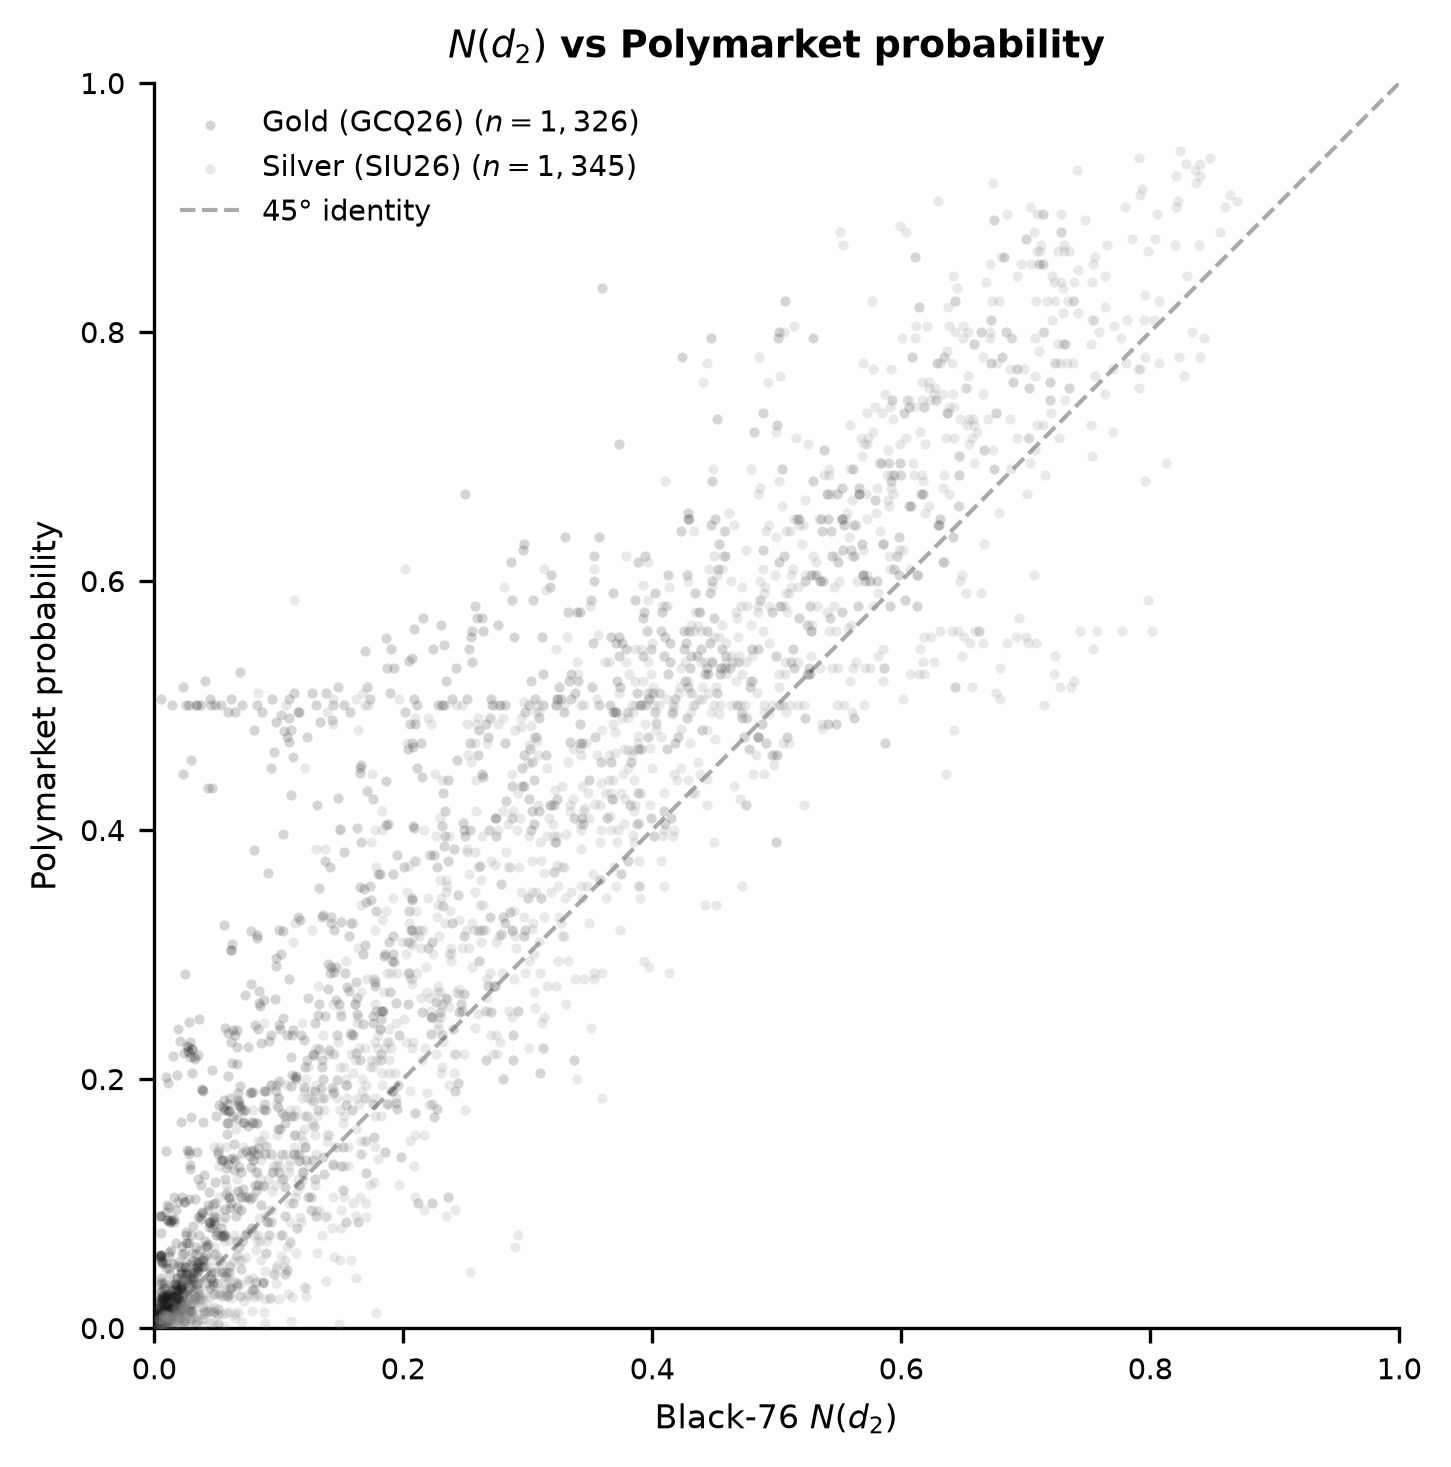
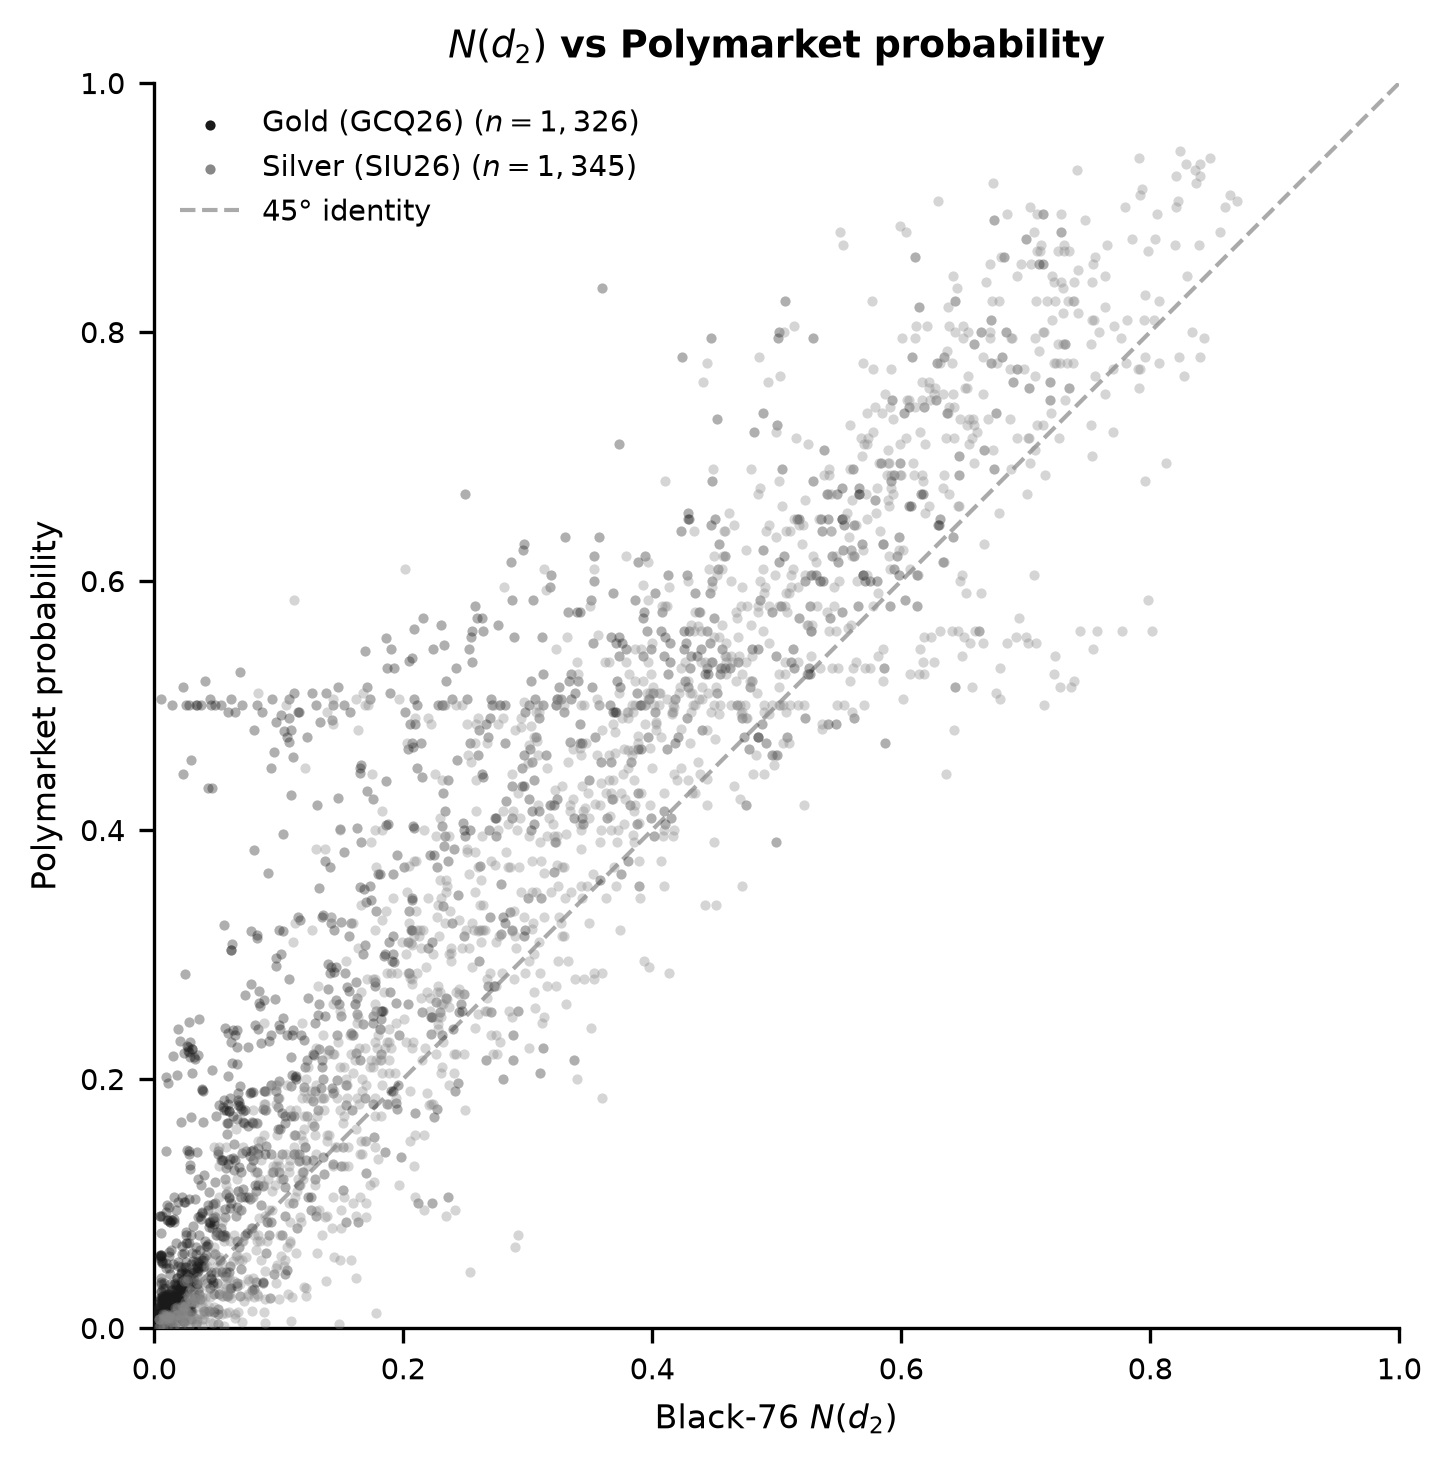
Fix scatter plot alpha so Gold/Silver colors and legend are distinguishable

diff --git a/plot_scatterplot.py b/plot_scatterplot.py
@@ -15,7 +15,7 @@ for asset, color, label in [
 ]:
     sub = df[df["underlying"] == asset]
     ax.scatter(sub["nd2"], sub["pm_prob"],
-               color=color, alpha=0.18, s=6, linewidths=0,
+               color=color, alpha=0.35, s=6, linewidths=0,
                label=f"{label} ($n={len(sub):,}$)", zorder=3)
 
 # 45-degree identity line
@@ -32,7 +32,9 @@ ax.set_ylabel("Polymarket probability", fontsize=8)
 ax.set_title("$N(d_2)$ vs Polymarket probability", fontsize=9, fontweight="bold")
 ax.tick_params(labelsize=7)
 
-ax.legend(fontsize=7, frameon=False, loc="upper left")
+legend = ax.legend(fontsize=7, frameon=False, loc="upper left")
+for handle in legend.legend_handles:
+    handle.set_alpha(1.0)
 
 ax.spines["top"].set_visible(False)
 ax.spines["right"].set_visible(False)